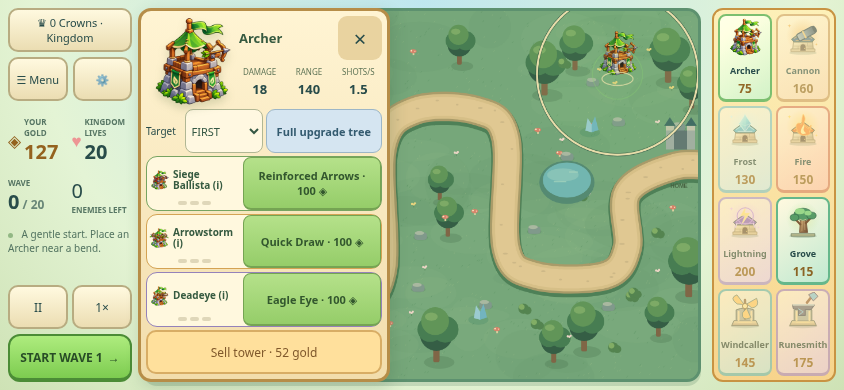
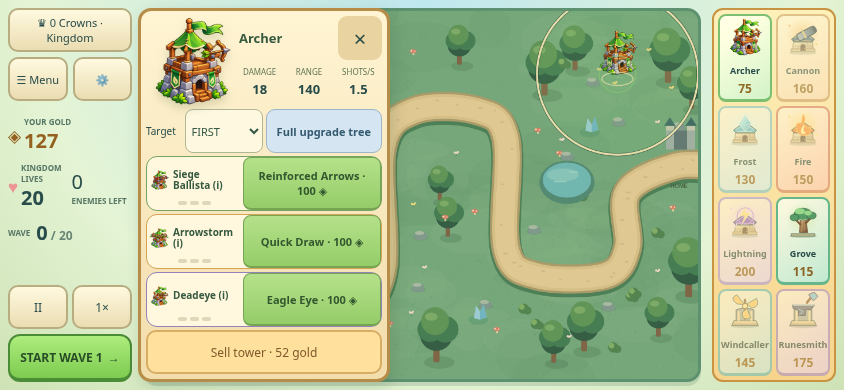
Keep long-battle gold and wave counters inside mobile HUD rails

Changed region(s): [[0.0, 0.3077, 0.154, 0.5538], [0.0, 0.5846, 0.154, 0.6462], [0.7085, 0.1231, 0.7393, 0.1846]]

diff --git a/docs/artwork/mobile-battlefield/gallery.html b/docs/artwork/mobile-battlefield/gallery.html
@@ -1,1 +1,1 @@
-<!doctype html><html lang="en"><meta charset="utf-8"><meta name="viewport" content="width=device-width,initial-scale=1"><title>Tiny Siege V5 · rendered layout review</title><style>body{font:16px system-ui;margin:0;padding:24px;background:#e4f4d5;color:#284c4a}main{display:grid;grid-template-columns:repeat(auto-fit,minmax(min(100%,430px),1fr));gap:20px}figure{margin:0;background:#fff4d3;border:2px solid #b68d48;border-radius:12px;overflow:hidden}img{display:block;width:100%;height:auto}figcaption{padding:12px;font-weight:700}a{color:inherit}</style><h1>Tiny Siege V5 · battlefield and upgrade panels</h1><p>Actual Phaser renders. Before: 306 × 204 (19.0%). After: 552 × 368 (61.7%) at 844 × 390. No merge or deployment.</p><main><figure><a href="before-prototype-landscape.png"><img src="before-prototype-landscape.png" alt="before prototype landscape" loading="lazy"></a><figcaption>before prototype landscape</figcaption></figure><figure><a href="after-landscape.png"><img src="after-landscape.png" alt="after landscape" loading="lazy"></a><figcaption>after landscape</figcaption></figure><figure><a href="panel-right.png"><img src="panel-right.png" alt="panel right" loading="lazy"></a><figcaption>panel right</figcaption></figure><figure><a href="panel-left.png"><img src="panel-left.png" alt="panel left" loading="lazy"></a><figcaption>panel left</figcaption></figure><figure><a href="upgraded-panel-left.png"><img src="upgraded-panel-left.png" alt="upgraded panel left" loading="lazy"></a><figcaption>upgraded panel left</figcaption></figure><figure><a href="active-wave-panel.png"><img src="active-wave-panel.png" alt="active wave panel" loading="lazy"></a><figcaption>active wave panel</figcaption></figure><figure><a href="placement-landscape.png"><img src="placement-landscape.png" alt="placement landscape" loading="lazy"></a><figcaption>placement landscape</figcaption></figure><figure><a href="hero-wave-panel.png"><img src="hero-wave-panel.png" alt="hero wave panel" loading="lazy"></a><figcaption>hero wave panel</figcaption></figure><figure><a href="selected-932x430.png"><img src="selected-932x430.png" alt="selected 932x430" loading="lazy"></a><figcaption>selected 932x430</figcaption></figure><figure><a href="selected-667x375.png"><img src="selected-667x375.png" alt="selected 667x375" loading="lazy"></a><figcaption>selected 667x375</figcaption></figure><figure><a href="selected-390x844.png"><img src="selected-390x844.png" alt="selected 390x844" loading="lazy"></a><figcaption>selected 390x844</figcaption></figure><figure><a href="selected-768x1024.png"><img src="selected-768x1024.png" alt="selected 768x1024" loading="lazy"></a><figcaption>selected 768x1024</figcaption></figure><figure><a href="selected-1024x768.png"><img src="selected-1024x768.png" alt="selected 1024x768" loading="lazy"></a><figcaption>selected 1024x768</figcaption></figure><figure><a href="selected-1440x900.png"><img src="selected-1440x900.png" alt="selected 1440x900" loading="lazy"></a><figcaption>selected 1440x900</figcaption></figure><figure><a href="before-v4-landscape.png"><img src="before-v4-landscape.png" alt="before v4 landscape" loading="lazy"></a><figcaption>before v4 landscape</figcaption></figure></main><p><a href="README.md">Implementation, validation and limitations</a></p></html>
+<!doctype html><html lang="en"><meta charset="utf-8"><meta name="viewport" content="width=device-width,initial-scale=1"><title>Tiny Siege V5 · rendered layout review</title><style>body{font:16px system-ui;margin:0;padding:24px;background:#e4f4d5;color:#284c4a}main{display:grid;grid-template-columns:repeat(auto-fit,minmax(min(100%,430px),1fr));gap:20px}figure{margin:0;background:#fff4d3;border:2px solid #b68d48;border-radius:12px;overflow:hidden}img{display:block;width:100%;height:auto}figcaption{padding:12px;font-weight:700}a{color:inherit}</style><h1>Tiny Siege V5 · battlefield and upgrade panels</h1><p>Actual Phaser renders. Before: 306 × 204 (19.0%). After: 552 × 368 (61.7%) at 844 × 390. No merge or deployment.</p><main><figure><a href="before-prototype-landscape.png"><img src="before-prototype-landscape.png" alt="before prototype landscape" loading="lazy"></a><figcaption>before prototype landscape</figcaption></figure><figure><a href="after-landscape.png"><img src="after-landscape.png" alt="after landscape" loading="lazy"></a><figcaption>after landscape</figcaption></figure><figure><a href="panel-right.png"><img src="panel-right.png" alt="panel right" loading="lazy"></a><figcaption>panel right</figcaption></figure><figure><a href="panel-left.png"><img src="panel-left.png" alt="panel left" loading="lazy"></a><figcaption>panel left</figcaption></figure><figure><a href="upgraded-panel-left.png"><img src="upgraded-panel-left.png" alt="upgraded panel left" loading="lazy"></a><figcaption>upgraded panel left</figcaption></figure><figure><a href="active-wave-panel.png"><img src="active-wave-panel.png" alt="active wave panel" loading="lazy"></a><figcaption>active wave panel</figcaption></figure><figure><a href="placement-landscape.png"><img src="placement-landscape.png" alt="placement landscape" loading="lazy"></a><figcaption>placement landscape</figcaption></figure><figure><a href="hero-wave-panel.png"><img src="hero-wave-panel.png" alt="hero wave panel" loading="lazy"></a><figcaption>hero wave panel</figcaption></figure><figure><a href="selected-932x430.png"><img src="selected-932x430.png" alt="selected 932x430" loading="lazy"></a><figcaption>selected 932x430</figcaption></figure><figure><a href="selected-667x375.png"><img src="selected-667x375.png" alt="selected 667x375" loading="lazy"></a><figcaption>selected 667x375</figcaption></figure><figure><a href="selected-390x844.png"><img src="selected-390x844.png" alt="selected 390x844" loading="lazy"></a><figcaption>selected 390x844</figcaption></figure><figure><a href="selected-768x1024.png"><img src="selected-768x1024.png" alt="selected 768x1024" loading="lazy"></a><figcaption>selected 768x1024</figcaption></figure><figure><a href="selected-1024x768.png"><img src="selected-1024x768.png" alt="selected 1024x768" loading="lazy"></a><figcaption>selected 1024x768</figcaption></figure><figure><a href="selected-1440x900.png"><img src="selected-1440x900.png" alt="selected 1440x900" loading="lazy"></a><figcaption>selected 1440x900</figcaption></figure><figure><a href="before-v4-landscape.png"><img src="before-v4-landscape.png" alt="before v4 landscape" loading="lazy"></a><figcaption>before v4 landscape</figcaption></figure><figure><a href="large-treasury.png"><img src="large-treasury.png" alt="Large treasury, Hard battle HUD boundary fixture" loading="lazy"></a><figcaption>Large treasury · Hard HUD boundary fixture</figcaption></figure></main><p><a href="README.md">Implementation, validation and limitations</a></p></html>

diff --git a/tests/browser/mobile-battlefield.spec.js b/tests/browser/mobile-battlefield.spec.js
@@ -147,3 +147,22 @@ test('native Settings and targeting keys do not start or pause gameplay',async({
  expect(await page.evaluate(()=>window.__tinySiege.model.paused)).toBe(false);
  await expect(page.locator('#selection-panel')).toBeVisible();
 });
+test('Hard battle treasury and wave numbers remain inside the landscape HUD rail',async({page})=>{
+ await page.setViewportSize({width:844,height:390});await page.goto('./');
+ await page.waitForFunction(()=>window.__tinySiege?.ui.scene?.dynamic);
+ await page.locator('#new-profile').click();await page.locator('#nickname').fill('Treasury Knight');
+ await page.locator('#profile-form button').click();await page.locator('[data-map="emerald"]').click();
+ await page.locator('[data-difficulty="hard"]').click();await page.locator('#begin-adventure').click();
+ // UI boundary fixture, not a funded campaign or progression reward.
+ await page.evaluate(()=>{const{model,ui}=window.__tinySiege;model.gold=123456;model.wave=99;ui.refresh(true)});
+ for(const [width,height] of [[844,390],[740,360],[667,375]]){
+   await page.setViewportSize({width,height});await page.waitForTimeout(200);
+   const hud=await page.locator('.hud').boundingBox(),pause=await page.locator('#pause').boundingBox();
+   for(const q of ['#gold','.lives','.wave-counter','.remaining']){
+     const b=await page.locator(q).boundingBox();
+     expect(b.x+b.width,q).toBeLessThanOrEqual(hud.x+hud.width+.5);
+     expect(b.y+b.height,q).toBeLessThanOrEqual(pause.y);
+   }
+ }
+ await page.setViewportSize({width:844,height:390});await capture(page,'large-treasury');
+});

diff --git a/src/style.css b/src/style.css
@@ -2852,3 +2852,15 @@ aside, main:has(#selection-panel.open:not(.placing)) aside { grid-column: 2; }
 @media (min-width: 851px) and (min-height: 601px) {
   main:has(#hero-controls:not([hidden])) #selection-panel:not(.placing) { top: 106px; }
 }
+@media (orientation: landscape) and (max-height: 600px) {
+  .hud { grid-template-columns: repeat(2,minmax(0,1fr)); row-gap: 8px; }
+  .hud .gold { grid-column: 1/-1; grid-row: 1; }
+  .hud .lives { grid-column: 1; grid-row: 2; }
+  .hud .remaining { grid-column: 2; grid-row: 2; }
+  .hud .wave-counter { grid-column: 1/-1; grid-row: 3; display: flex; align-items: center; gap: 6px; }
+  .map-footer { display: none; }
+}
+@media (orientation: landscape) and (max-height: 330px) {
+  .hud { top: 98px; row-gap: 3px; }
+  .hud .resource b, .hud .wave-counter b { font-size: 18px; }
+}

diff --git a/docs/artwork/mobile-battlefield/README.md b/docs/artwork/mobile-battlefield/README.md
@@ -25,6 +25,7 @@ This is **3.25× the battlefield area** and **1.80× the on-screen tower dimensi
 | Active combat with the upgrade panel still open | [Combat](active-wave-panel.png) |
 | All eight towers available, placement/cancel UI | [Placement](placement-landscape.png) |
 | Adventure hero, ability controls and upgrades | [Hero](hero-wave-panel.png) |
+| Six-digit treasury and Hard wave progress (UI boundary fixture) | [Large treasury](large-treasury.png) |
 | Larger phone | [932 × 430](selected-932x430.png) |
 | Smaller phone | [667 × 375](selected-667x375.png) |
 | Portrait phone fallback | [390 × 844](selected-390x844.png) |
@@ -36,7 +37,7 @@ This is **3.25× the battlefield area** and **1.80× the on-screen tower dimensi
 
 ## Layout and interaction
 
-Short landscape screens have two compact rails: resources/menu/settings and wave/pause/speed on the left; eight illustrated shop entries on the right. Adventure hero controls occupy the bottom of the shop rail. The battlefield fits the space between them. Secondary sound, effects, restart and help actions live in an accessible Settings drawer. Essential controls remain outside the upgrade overlay. On desktop/tablet, the overlay begins below the hero controls, including when it opens on the left.
+Short landscape screens have two compact rails: resources/menu/settings and wave/pause/speed on the left; eight illustrated shop entries on the right. Adventure hero controls occupy the bottom of the shop rail. The battlefield fits the space between them. Secondary sound, effects, restart and help actions live in an accessible Settings drawer. Gold and wave progress span the rail, so six-digit treasuries and Hard-mode counters fit without shortening amounts or shrinking the usual text. Wave hints use the existing start-wave toast and first-visitor cards rather than an always-visible phone footer. Essential controls remain outside the upgrade overlay. On desktop/tablet, the overlay begins below the hero controls, including when it opens on the left.
 
 The selected tower's world x coordinate chooses the opposite upgrade side. At the exact midpoint the previous side remains. The overlay does not change the battlefield's grid column or fitting budget. Gold-only updates retain native upgrade/targeting controls. Native disclosure/select keys are isolated from Phaser shortcuts, so opening Settings or targeting with Space does not start/pause a wave. Wave, pause, speed, settings and hero ability taps preserve the panel. Closing it retains the range; selecting another visible tower updates its contents and side. Hero relocation deliberately dismisses upgrades, as before.
 
@@ -46,7 +47,7 @@ Portrait phones/tablets retain the largest full-width 3:2 board. With no selecti
 
 ## Validation and limits
 
-Local validation: **86 logic checks**, **53 browser tests** (one separately gated cloud test skipped), **17 focused transition/selection rechecks**, **one desktop/tablet hero-control exposure check** and **12 final viewport-budget rechecks**, **one native keyboard-control regression check**, **39 earned-gold progression victories**, and a successful production build. The [draft PR's checks](https://github.com/m87dv9yywz-oss/tiny-siege/pull/15/checks) rerun the full suite including cloud emulators; exact final CI evidence is recorded in the PR. The local emulator JAR download was denied by environment network policy, so no local emulator success is claimed. Focused tests exercise panel sides, unchanged canvas dimensions, immediate paid artwork changes, live combat, 44px main/shop targets, no page overflow, real repeated viewport transitions, native touch placement after rotation, and hero controls. The full existing suite covers all 16 Archer states/nine visual fallbacks, drag placement, upgrades/selling, eight towers, heroes, progression/checkpoints and cloud synchronization. Earned-gold V3/V4 reports are rerun without balance changes. Production build and shipped UI are checked separately.
+Local validation: **86 logic checks**, **53 browser tests** (one separately gated cloud test skipped), **17 focused transition/selection rechecks**, **one desktop/tablet hero-control exposure check** and **12 viewport-budget rechecks** and **14 final mobile checks**, **one native keyboard-control regression check**, **39 earned-gold progression victories**, and a successful production build. The [draft PR's checks](https://github.com/m87dv9yywz-oss/tiny-siege/pull/15/checks) rerun the full suite including cloud emulators; exact final CI evidence is recorded in the PR. The local emulator JAR download was denied by environment network policy, so no local emulator success is claimed. Focused tests exercise panel sides, unchanged canvas dimensions, immediate paid artwork changes, live combat, 44px main/shop targets, no page overflow, real repeated viewport transitions, native touch placement after rotation, and hero controls. The full existing suite covers all 16 Archer states/nine visual fallbacks, drag placement, upgrades/selling, eight towers, heroes, progression/checkpoints and cloud synchronization. Earned-gold V3/V4 reports are rerun without balance changes. Production build and shipped UI are checked separately.
 
 The original reference plan's `screenshots/` directory is absent from the Archer prototype checkout. The preserved V4 capture and freshly measured running baseline supply the comparisons; no missing reference images were invented.
 
